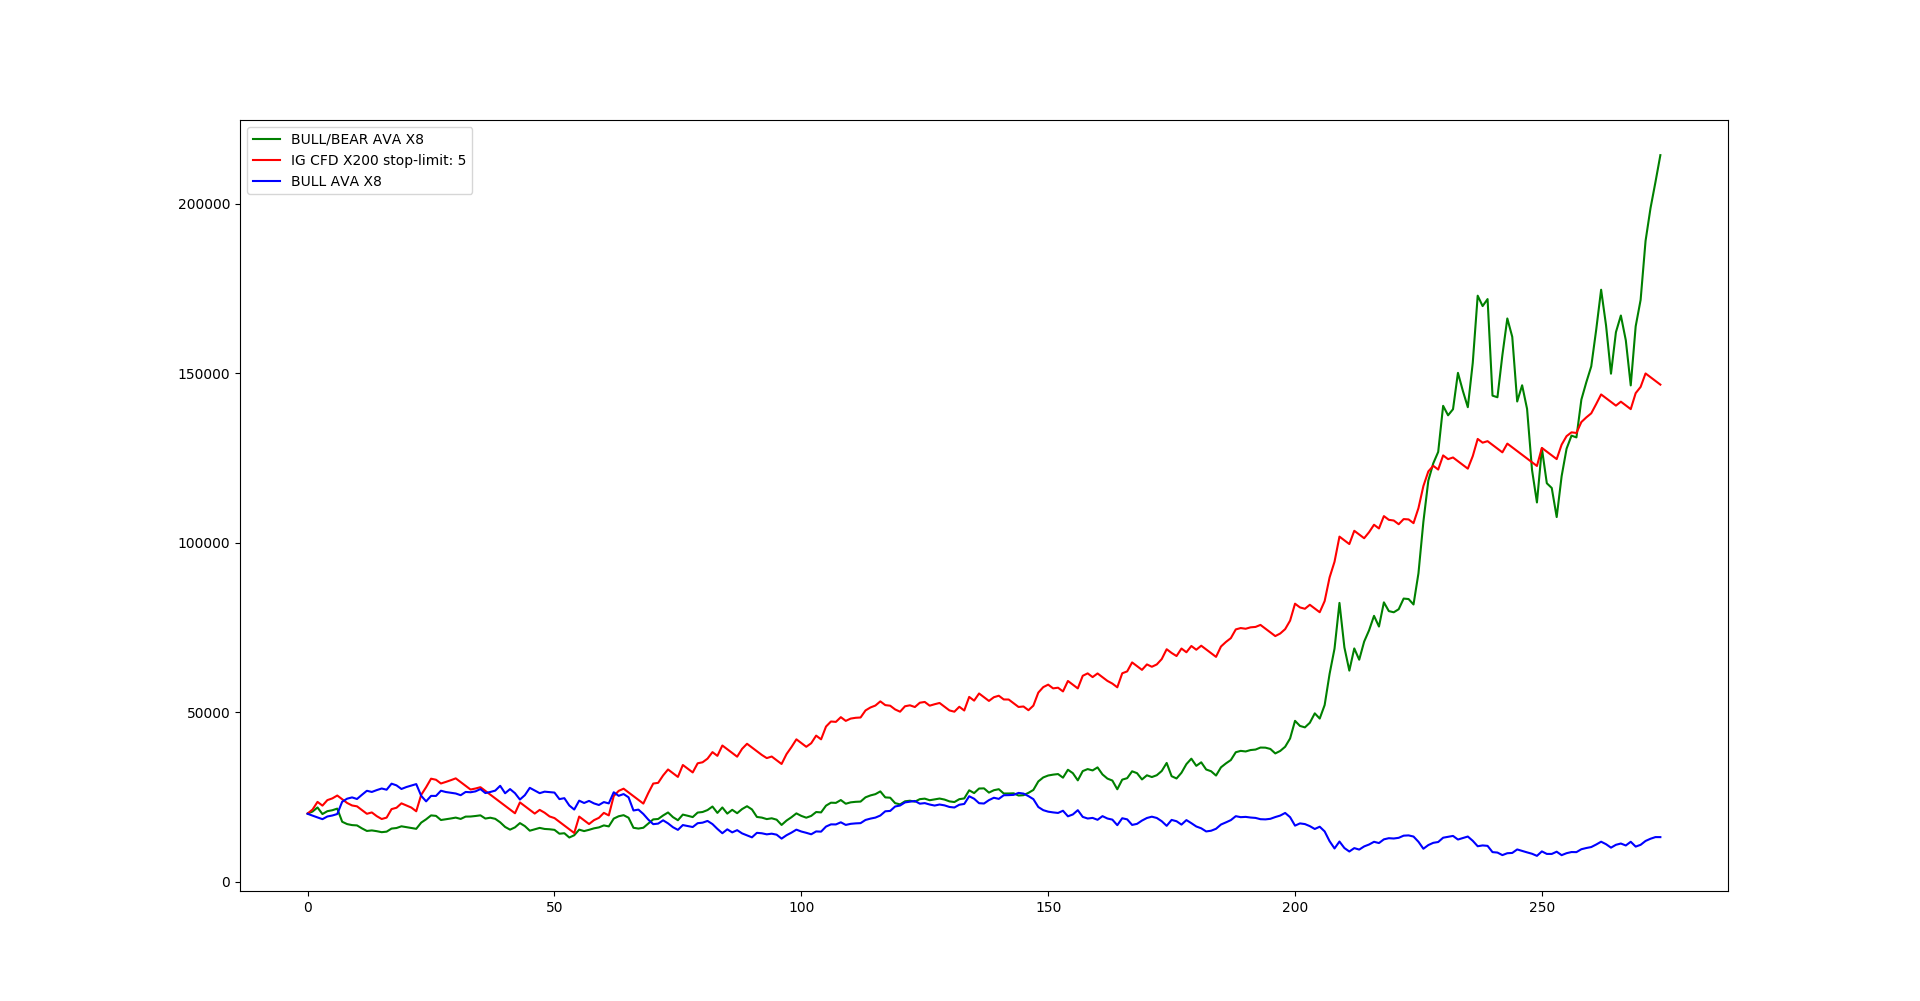
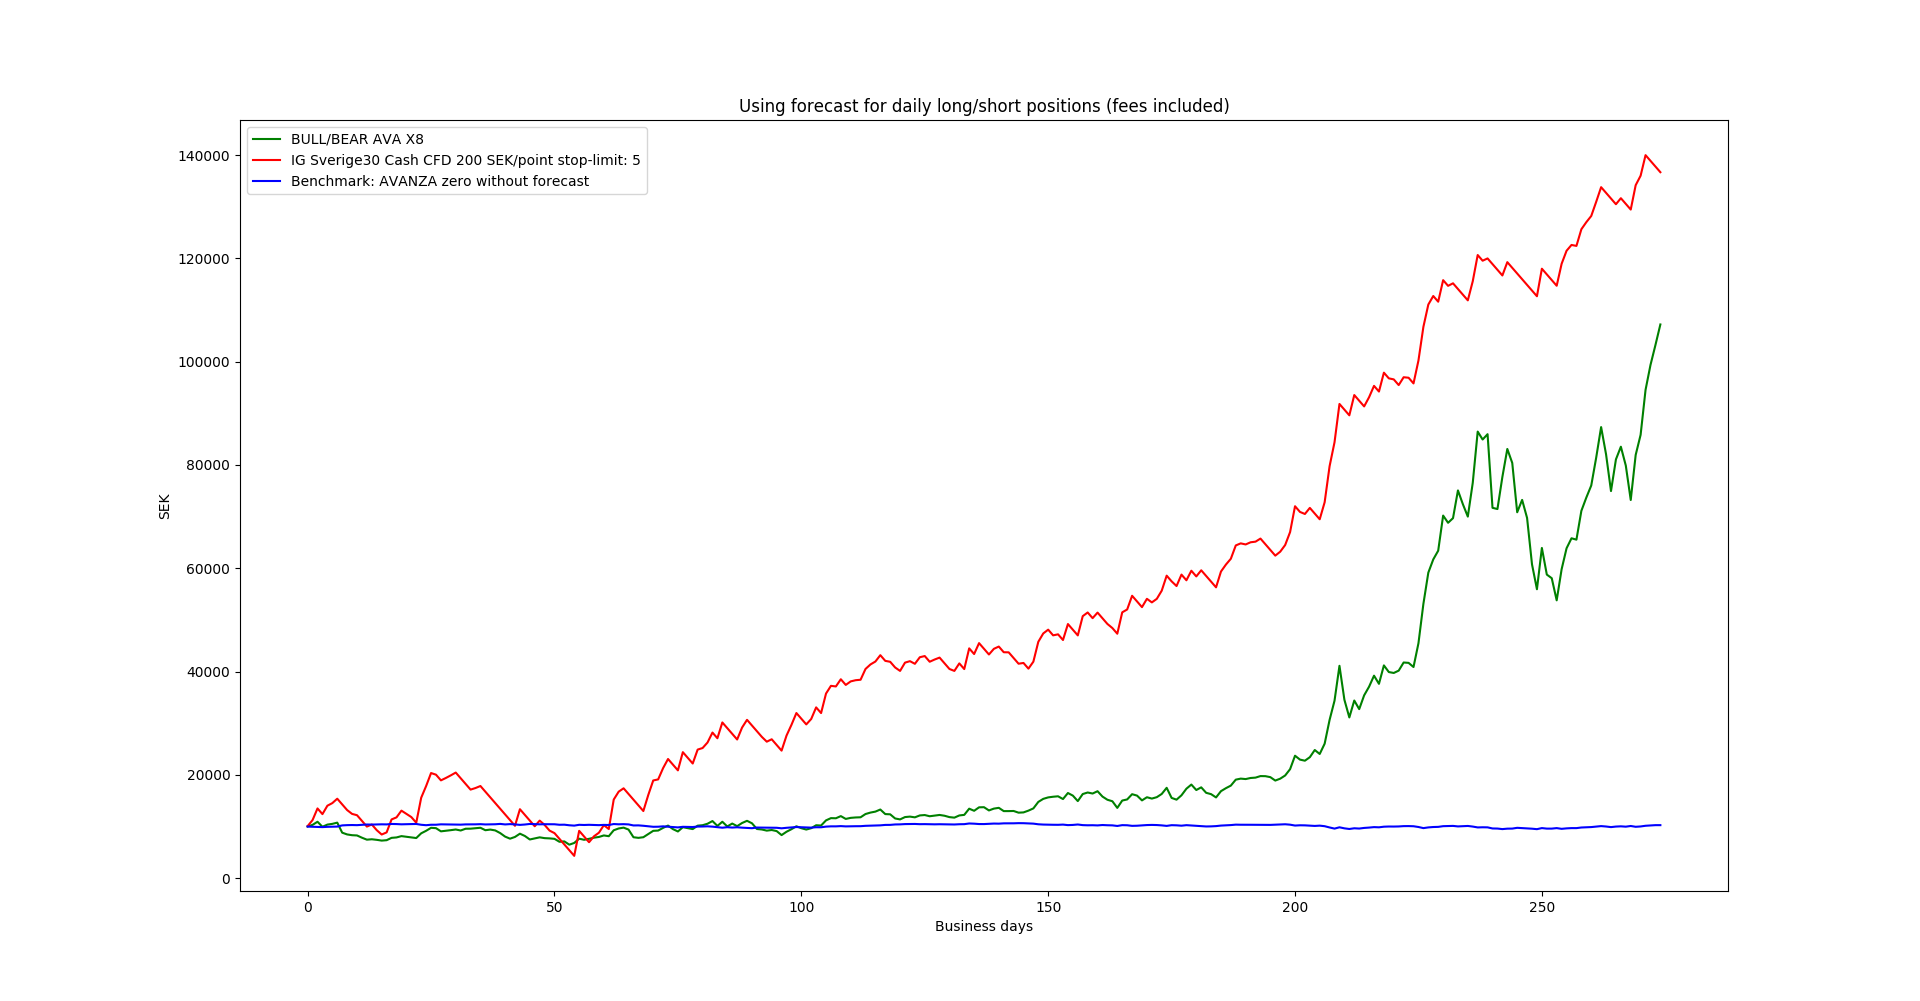
docs: neater backtesting plot

diff --git a/src/backtest.py b/src/backtest.py
@@ -94,8 +94,8 @@ cap_hist_ava = run_ava(cap_init, change_hist, pred_up_hist, leverage_ava)
 cap_hist_ig = run_ig(cap_init, diffs_hist, opens_hist, lows_hist, highs_hist,  pred_up_hist, leverage_ig, ig_stop_limit)
 
 label_ava = 'BULL/BEAR AVA X%s' % leverage_ava
-label_ig = 'IG CFD %s SEK/point stop-limit: %s' % (leverage_ig, ig_stop_limit)
-label_long = 'No forecast: AVANZA zero' 
+label_ig = 'IG Sverige30 Cash CFD %s SEK/point stop-limit: %s' % (leverage_ig, ig_stop_limit)
+label_long = 'Benchmark: AVANZA zero without forecast' 
 
 x = range(0, n_lags)
 pyplot.plot(x, cap_hist_ava, 'g-', label=label_ava)
